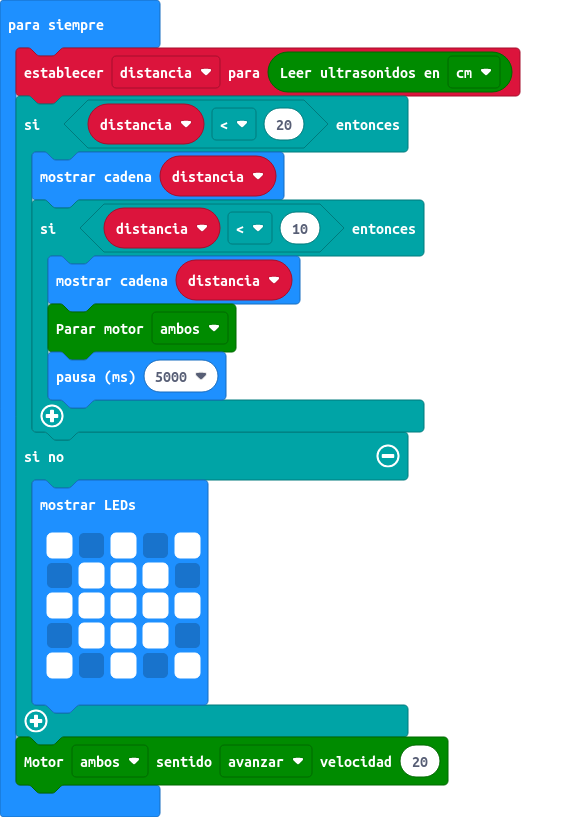
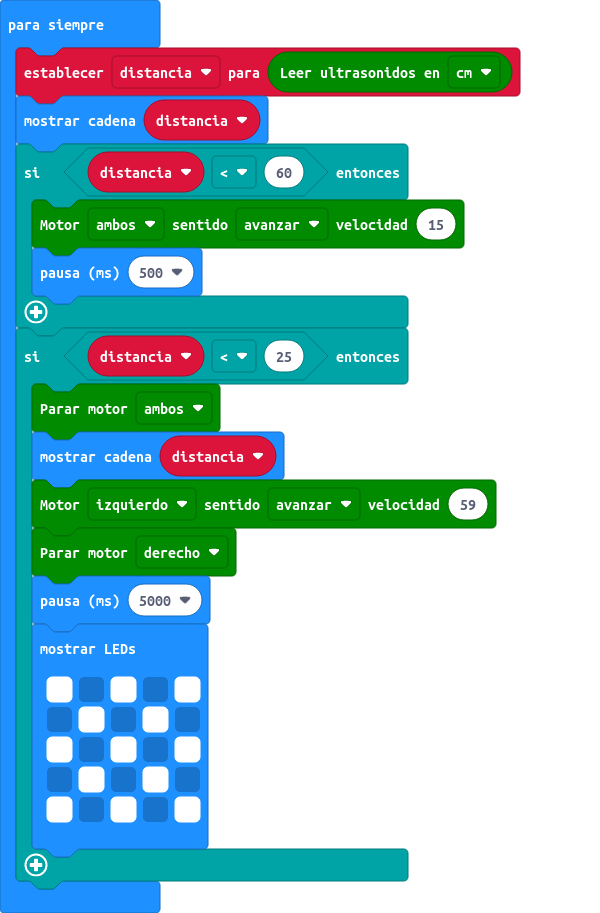
Actualizar main.blocks, main.ts

diff --git a/main.ts b/main.ts
@@ -1,21 +1,23 @@
 let distancia = 0
 basic.forever(function () {
     distancia = maqueen.Ultrasonic(PingUnit.Centimeters)
-    if (distancia < 20) {
+    basic.showString("" + (distancia))
+    if (distancia < 60) {
+        maqueen.motorRun(maqueen.Motors.All, maqueen.Dir.CW, 15)
+        basic.pause(500)
+    }
+    if (distancia < 25) {
+        maqueen.motorStop(maqueen.Motors.All)
         basic.showString("" + (distancia))
-        if (distancia < 10) {
-            basic.showString("" + (distancia))
-            maqueen.motorStop(maqueen.Motors.All)
-            basic.pause(5000)
-        }
-    } else {
+        maqueen.motorRun(maqueen.Motors.M1, maqueen.Dir.CW, 59)
+        maqueen.motorStop(maqueen.Motors.M2)
+        basic.pause(5000)
         basic.showLeds(`
             # . # . #
-            . # # # .
-            # # # # #
-            . # # # .
+            . # . # .
+            # . # . #
+            . # . # .
             # . # . #
             `)
     }
-    maqueen.motorRun(maqueen.Motors.All, maqueen.Dir.CW, 20)
 })
